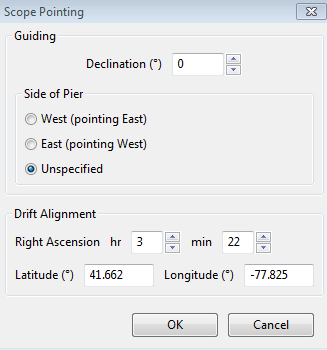
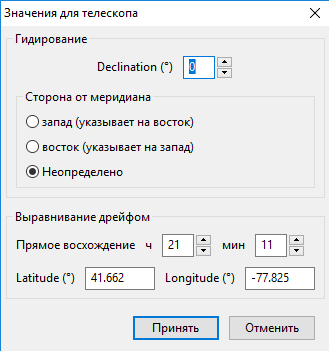
Update Russian help images.

diff --git a/locale/ru_RU/help/Tools.htm b/locale/ru_RU/help/Tools.htm
@@ -305,7 +305,7 @@
     окно, показывающее информацию о существующих файлах, включающую их
     имя, время и продолжительность сессии:<br>
     <br>
-    <img style="width: 579px; height: 378px;" alt=""
+    <img style="width: 575px; height: 378px;" alt=""
       src="Log_Upload_1.png"><br>
     <br>
     Выберите файлы, которые хотите загрузить и нажмите кнопку
@@ -318,7 +318,7 @@
     сессии.&nbsp; По завершении отправки появится окно с ссылкой на
     файлы:<br>
     <br>
-    <img style="width: 573px; height: 192px;" alt=""
+    <img style="width: 575px; height: 377px;" alt=""
       src="Log_Upload_2.png"><br>
     <br>
     Укажите эту ссылку при публикации&nbsp; своего вопроса на форуме.
@@ -440,7 +440,7 @@
     </ul>
     <br>
     <br>
-    <img style="width: 428px; height: 411px;" alt=""
+    <img style="width: 422px; height: 405px;" alt=""
       src="CometTrackingTool.png"><br>
     <br>
     <br>
@@ -499,7 +499,7 @@
     После запуска Помощника гидирования его окно выглядит следующим
     образом: <br>
     <br>
-    <img style="width: 1061px; height: 483px;" alt=""
+    <img style="width: 867px; height: 487px;" alt=""
       src="Guiding_Assistant_Start.png"><br>
     <br>
     Сообщение в верхней части окна гласит о том, что, прежде, проводить
@@ -525,7 +525,7 @@
     представлены как в угловых секундах, так и в пикселях.&nbsp; Окно
     будет выглядеть примерно так:<br>
     <br>
-    <img style="width: 1059px; height: 479px;" alt=""
+    <img style="width: 870px; height: 560px;" alt=""
       src="Guiding_Assistant_Finish.png"><br>
     <br>
     Раздел 'Советы' внизу окна отражает результаты высокочастотных
@@ -546,7 +546,7 @@
     Над кнопками 'Начать' и 'Остановить' появится новая группа статусных
     таблиц:<br>
     <br>
-    <img src="Guiding_Assistant_MeasuringBL.png"><br>
+    <img style="height: 542px; width: 867px" src="Guiding_Assistant_MeasuringBL.png"><br>
     <br>
     Чтобы измерить люфт, PHD2 перемещает звезду на значительное
     расстояние сперва на север, потом на юг. Не следует выбирать звезду,
@@ -654,7 +654,7 @@
         Неисправностей</a>'. Хотя тест легко провести вручную, можно
       воспользоваться этой возможностью PHD2.&nbsp; Диалоговое окно
       теста выглядит так: </p>
-    <img alt="" src="Star_cross_tool.png"><br>
+    <img alt="" style="width: 753px; height: 389px" src="Star_cross_tool.png"><br>
     <br>
     <p>Предполагается, что основная камера используется для съёмки, и
       PHD2 не знает масштаба получаемых изображений.&nbsp; Убедитесь,
@@ -691,11 +691,9 @@
     или даже обмена с другими пользователями <span style="font-style:
       italic;">PHD2</span>.<br>
     <br>
-    <h3><a name="Ask_for_coordinates_aux_mount"></a>Дополнительное
-      подключение с заданием координат</h3>
+    <h3><a name="Ask_for_coordinates_aux_mount"></a>Дополнительное подключение с заданием координат</h3>
     <p>Если не удаётся подключить монтировку через драйвера ASCOM или
-      INDI drivers, то для дополнительного подключения монтировки можно
-      задать координаты вручную - это лучше, чем ничего.&nbsp; Для этого
+      INDI drivers, то можно использовать тип 'Запрос координат', чтобы задать их вручную - это лучше, чем ничего.&nbsp; Для этого
       необходимо перед каждым гидированием ввести или подтвердить данные
       о положении телескопа: </p>
     <img alt="" src="Manual_mount.png"><br>
@@ -714,7 +712,7 @@
       корректно. </p>
     <p>При выравнивании дрейфом диалоговое окно будет выглядеть немного
       по-другому: </p>
-    <img alt="" src="Manual_mount_drift.png"><br>
+    <img style="width: 329px; height: 351px" alt="" src="Manual_mount_drift.png"><br>
     <br>
     <p>Если ввести дополнительные данные для прямого восхождения, широты
       и долготы, пурпурная мишень будет отражать более точную
